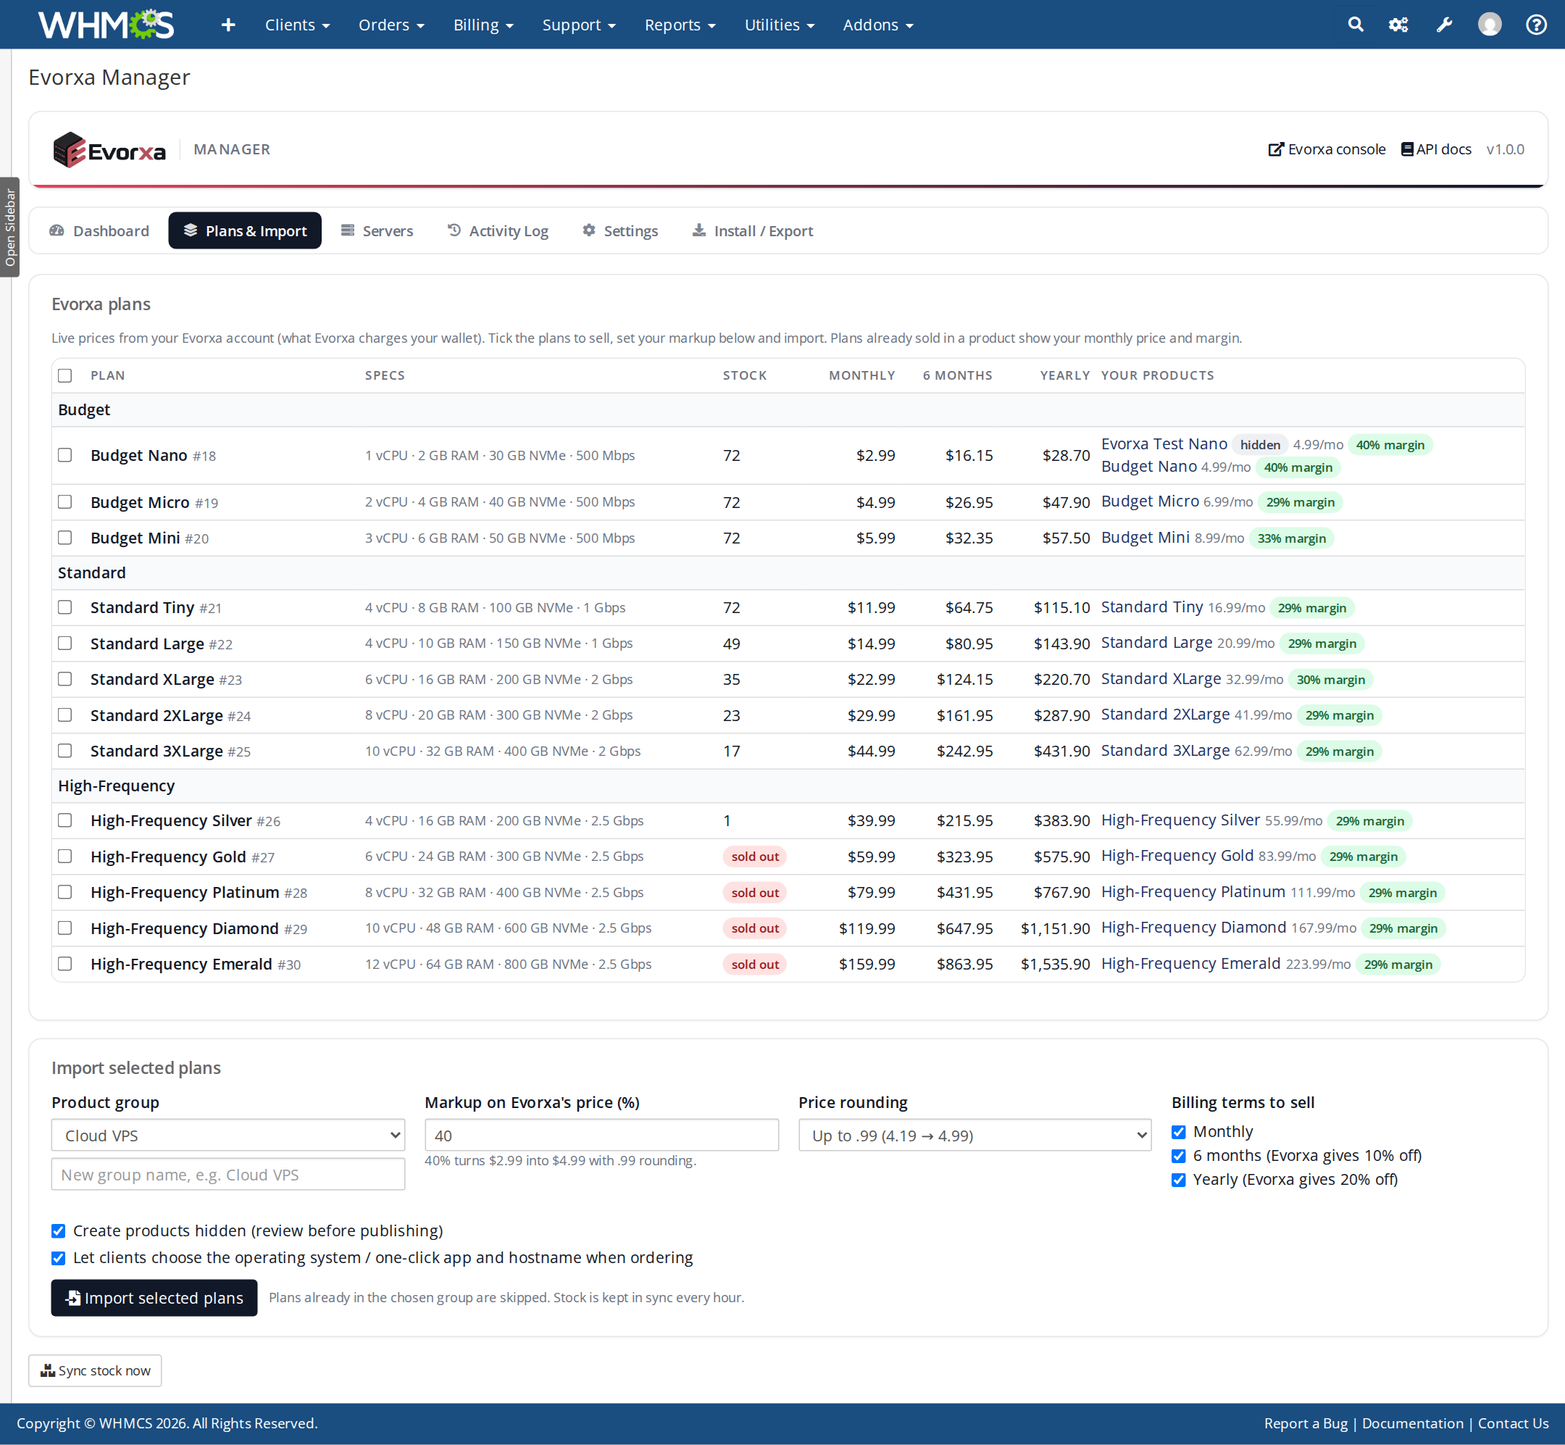
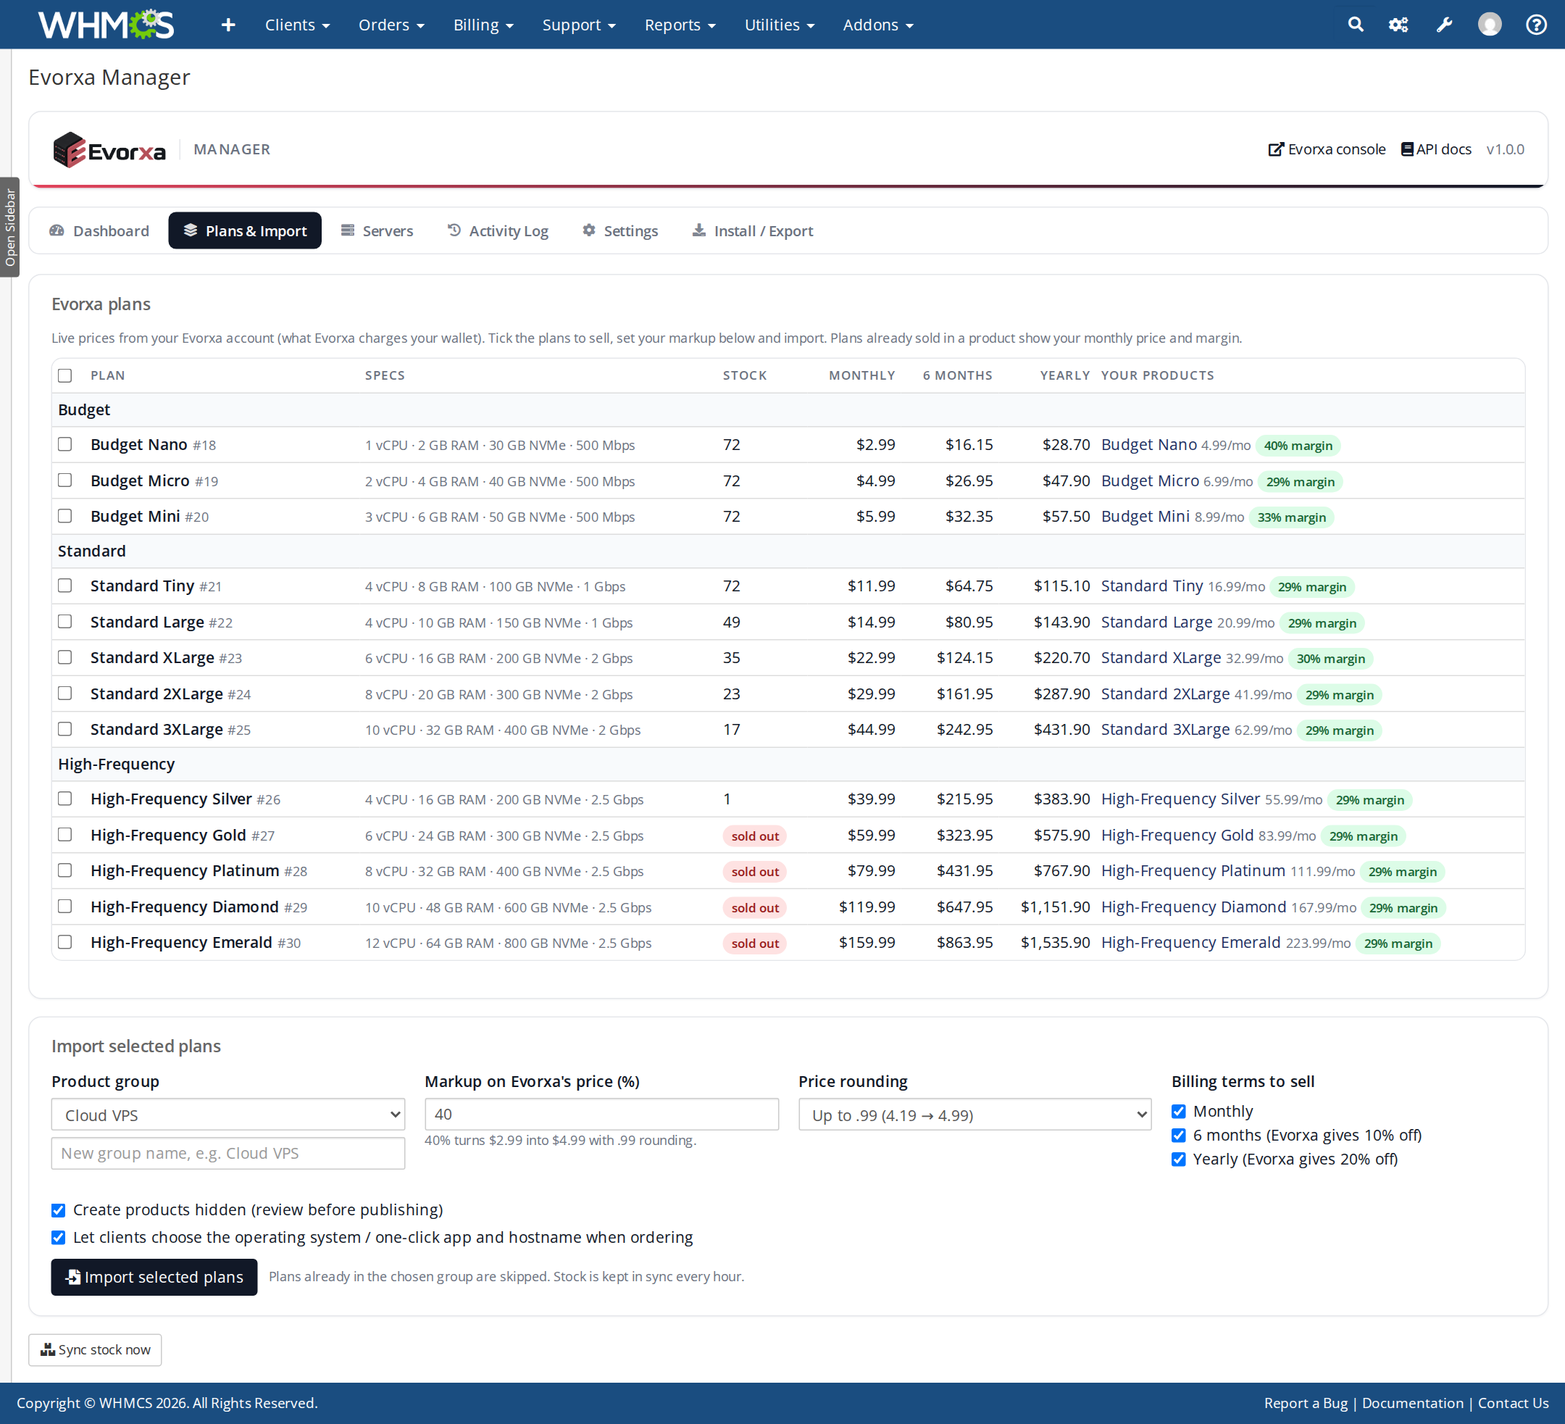
README, one-command installer, Marketplace listing and images
- README: hero image, badges, one-command curl install, manual install, features
  with images, screenshot gallery, requirements, customising, support
- install.sh: install or update from the latest GitHub release into any WHMCS
  (checks the folder, backs up an existing install, keeps lang/overrides,
  matches file ownership)
- marketplace/: WHMCS Marketplace listing text, 892x502 screenshots, icon and
  GitHub social preview
- Plans & Import: retired products are no longer listed under "Your products"
- INSTALL.md / INSTALL.txt / CHANGELOG: one-command install

diff --git a/modules/servers/evorxa/lib/Admin/AddonController.php b/modules/servers/evorxa/lib/Admin/AddonController.php
@@ -329,11 +329,12 @@ class AddonController
     {
         $plans = (new Catalog($this->api()))->plans(true);
         $linked = [];
-        foreach (Capsule::table('tblproducts')->where('servertype', 'evorxa')->get(['id', 'name', 'gid', 'hidden', 'retired', 'configoption1']) as $p) {
+        // Retired products can no longer be ordered, so they are not "your products" for a plan.
+        foreach (Capsule::table('tblproducts')->where('servertype', 'evorxa')->where('retired', 0)->get(['id', 'name', 'gid', 'hidden', 'configoption1']) as $p) {
             $monthly = Capsule::table('tblpricing')->where('type', 'product')->where('relid', $p->id)
                 ->where('currency', (int) Capsule::table('tblcurrencies')->where('default', 1)->value('id'))->value('monthly');
             $linked[(int) $p->configoption1][] = [
-                'id' => $p->id, 'name' => $p->name, 'hidden' => (bool) $p->hidden, 'retired' => (bool) $p->retired,
+                'id' => $p->id, 'name' => $p->name, 'hidden' => (bool) $p->hidden,
                 'monthly' => $monthly !== null && (float) $monthly > 0 ? (float) $monthly : null,
             ];
         }

diff --git a/README.md b/README.md
@@ -1,12 +1,177 @@
-# Evorxa Cloud for WHMCS
+<p align="center">
+  <img src="marketplace/github-social-preview.png" alt="Evorxa Cloud for WHMCS - resell VPS and VDS servers with automatic provisioning" width="100%">
+</p>
 
-Resell Evorxa VPS and VDS servers from WHMCS with automatic provisioning, a full client control panel and the Evorxa Manager admin addon.
+<h1 align="center">Evorxa Cloud for WHMCS</h1>
 
-Documentation (shipped inside the module):
+<p align="center">
+  <b>Resell Evorxa VPS and VDS cloud servers from WHMCS, under your own brand.</b><br>
+  Automatic provisioning, a full client control panel and an admin manager for prices, stock, renewals and wallet alerts.
+</p>
 
-- [Overview & screenshots](modules/servers/evorxa/docs/README.md)
-- [Installation guide](modules/servers/evorxa/docs/INSTALL.md)
-- [How to use](modules/servers/evorxa/docs/USAGE.md)
-- [Changelog](modules/servers/evorxa/docs/CHANGELOG.md)
+<p align="center">
+  <a href="https://github.com/ScaleBit-Technologies/evorxa-whmcs/releases/latest"><img src="https://img.shields.io/github/v/release/ScaleBit-Technologies/evorxa-whmcs?label=release&color=e2445c" alt="Latest release"></a>
+  <img src="https://img.shields.io/badge/WHMCS-8.0%2B-1d4ed8" alt="WHMCS 8.0+">
+  <img src="https://img.shields.io/badge/PHP-7.4%20--%208.3-777bb4" alt="PHP 7.4 - 8.3">
+  <img src="https://img.shields.io/badge/languages-English%20%7C%20Arabic-0f766e" alt="English and Arabic">
+  <a href="https://github.com/ScaleBit-Technologies/evorxa-whmcs/releases/latest/download/evorxa-whmcs.zip"><img src="https://img.shields.io/badge/download-evorxa--whmcs.zip-111827" alt="Download"></a>
+</p>
 
-Development: `bin/deploy.sh /path/to/whmcs [owner:group]` copies the module into a WHMCS install; `bin/package.sh` builds the upload-ready zip in `dist/` (same contents as Evorxa Manager > Install / Export).
+<p align="center">
+  <a href="#install">Install</a> ·
+  <a href="#features">Features</a> ·
+  <a href="#screenshots">Screenshots</a> ·
+  <a href="modules/servers/evorxa/docs/INSTALL.md">Installation guide</a> ·
+  <a href="modules/servers/evorxa/docs/USAGE.md">How to use</a> ·
+  <a href="modules/servers/evorxa/docs/CHANGELOG.md">Changelog</a>
+</p>
+
+---
+
+**Evorxa Cloud** is a WHMCS provisioning module and admin addon for hosting companies that want to sell cloud servers without running their own hypervisors. Your clients order a VPS in your WHMCS store. When the invoice is paid, the server is created on your [Evorxa](https://evorxa.com) account in about a minute. The client then gets a branded "server ready" email and a complete control panel on the service page. Suspensions, terminations with prorated refunds, upgrades and renewals are handled for you.
+
+## Install
+
+### One command (SSH)
+
+```bash
+curl -fsSL https://raw.githubusercontent.com/ScaleBit-Technologies/evorxa-whmcs/master/install.sh | bash -s -- /path/to/whmcs
+```
+
+Replace `/path/to/whmcs` with the folder that contains WHMCS's `init.php` (for example `/var/www/whmcs` or `/home/user/public_html`). The script:
+
+- checks the folder really is WHMCS
+- downloads the latest release
+- installs only `modules/servers/evorxa` and `modules/addons/evorxa_manager`
+- gives the files the same owner as WHMCS
+
+Run the same command again to **update**. The current install is backed up to your home folder first, and your settings and `lang/overrides` are kept. To install a specific version, add it at the end: `... | bash -s -- /path/to/whmcs 1.0.0`.
+
+### With curl and unzip
+
+```bash
+cd /path/to/whmcs
+curl -fsSLO https://github.com/ScaleBit-Technologies/evorxa-whmcs/releases/latest/download/evorxa-whmcs.zip
+unzip -o evorxa-whmcs.zip 'modules/*' && rm evorxa-whmcs.zip
+# if you ran this as root: chown -R <web user>:<web group> modules/servers/evorxa modules/addons/evorxa_manager
+```
+
+### Without SSH (cPanel, Plesk, FTP)
+
+Download **[evorxa-whmcs.zip](https://github.com/ScaleBit-Technologies/evorxa-whmcs/releases/latest/download/evorxa-whmcs.zip)** and extract it into your WHMCS root folder. It only adds the two module folders.
+
+### Then connect your Evorxa account (about 10 minutes)
+
+1. **System Settings > Addon Modules**: activate **Evorxa Manager**.
+2. **Evorxa console > API tokens**: create a token with `instances:read instances:write analytics:read shield:read shield:write wallet:read`.
+3. **System Settings > Servers > Add New Server**: module **Evorxa Cloud**, hostname `api.evorxa.com`, paste the token into **Password**, then **Test Connection**.
+4. **Addons > Evorxa Manager > Settings**: choose the Evorxa project for client servers and your hostname suffix.
+5. **Plans & Import**: tick the plans to sell, set your markup and import. Review the hidden products, then publish them.
+6. Run the WHMCS cron every 5 minutes.
+
+Step-by-step with screenshots: **[Installation guide](modules/servers/evorxa/docs/INSTALL.md)**.
+
+## Features
+
+### A control panel your clients will love
+
+It replaces the Overview tab of the service page in any theme (Lagom, Twenty-One, Six, custom). It works on desktop and mobile, in English and Arabic (RTL), and is fully white-label: clients never see Evorxa.
+
+- **Power**: start, restart, shut down, force off (with confirmation)
+- **Access**: SSH command or RDP address, username, root password (hidden until *Show*) and **reset root password**
+- **IP addresses** with **editable reverse DNS**
+- **Usage graphs**: CPU, memory, disk and network for 1 h, 6 h or 24 h
+- **DDoS protection**: filtered vs clean traffic, attack history and email alerts
+- **Network firewall**: on/off switch, default policies, quick-add rules and **drag-and-drop rule order**
+- **Reinstall** with any operating system or a one-click app
+- Fast: cached data with skeleton loading, no spinners
+
+![Client control panel](marketplace/1-client-control-panel.png)
+
+### Operating system or one-click app at checkout
+
+One visual picker replaces the plain dropdowns on the order form. Clients choose an OS family and version, or apps like n8n, Coolify, WireGuard, Nextcloud, cPanel, DirectAdmin or Pterodactyl. It works with every order form template and theme, and keeps the choice when the billing cycle changes.
+
+![Order form picker](marketplace/2-order-os-or-app.png)
+
+### Evorxa Manager for admins
+
+- **Dashboard**: setup checklist, wallet balance, next renewal, monthly revenue vs Evorxa cost and your margin, and anything that needs attention
+- **One-click plan import** with your markup and price rounding (for example 40 % rounded to x.99), in every currency, with upgrade paths between plans
+- **Stock sync** every hour, so sold-out plans cannot be ordered
+- **Servers**: reconcile Evorxa servers with WHMCS services, and flag unmanaged or orphaned servers
+- **Activity log** of every action with the wallet charge or refund
+- **Alerts** for low wallet, failed builds, apps that did not install and servers suspended upstream
+- **Install / Export**: download an upload-ready package of the installed module
+
+![Plan import](marketplace/3-plan-import.png)
+
+### Safe with your money
+
+- A server is **never bought twice**: the order is recorded before Evorxa is called, never retried blindly, and adopted by name if a request timed out.
+- The module **only touches servers it created**. Your own Evorxa projects are never listed or changed.
+- **Terminate** deletes the server immediately, and Evorxa refunds the unused time to your wallet.
+- **End-of-period cancellations** stop the Evorxa renewal in time.
+- The **renewal keeper** reactivates a server Evorxa suspended while the client has paid.
+- Free and one-time billing cycles are refused, because they would bill your wallet forever.
+
+## Screenshots
+
+| | |
+|---|---|
+| ![Overview](modules/servers/evorxa/docs/screenshots/01-client-overview.png) | ![Usage graphs](modules/servers/evorxa/docs/screenshots/02-client-usage.png) |
+| ![DDoS protection](modules/servers/evorxa/docs/screenshots/03-client-ddos.png) | ![Firewall](modules/servers/evorxa/docs/screenshots/04-client-firewall.png) |
+| ![Reinstall](modules/servers/evorxa/docs/screenshots/05-client-reinstall.png) | ![One-click apps](modules/servers/evorxa/docs/screenshots/06-client-reinstall-apps.png) |
+| ![Reverse DNS](modules/servers/evorxa/docs/screenshots/07-client-ip-rdns.png) | ![Setting up](modules/servers/evorxa/docs/screenshots/09-client-provisioning.png) |
+| ![Suspended](modules/servers/evorxa/docs/screenshots/10-client-suspended.png) | ![Closed](modules/servers/evorxa/docs/screenshots/11-client-closed.png) |
+| ![Arabic](modules/servers/evorxa/docs/screenshots/12-client-arabic.png) | ![Order form](modules/servers/evorxa/docs/screenshots/14-order-os.png) |
+| ![Manager dashboard](modules/servers/evorxa/docs/screenshots/20-admin-dashboard.png) | ![Plans & Import](modules/servers/evorxa/docs/screenshots/21-admin-plans.png) |
+| ![Servers](modules/servers/evorxa/docs/screenshots/22-admin-servers.png) | ![Activity log](modules/servers/evorxa/docs/screenshots/23-admin-activity-log.png) |
+| ![Settings](modules/servers/evorxa/docs/screenshots/24-admin-settings.png) | ![Admin service tab](modules/servers/evorxa/docs/screenshots/26-admin-service-tab.png) |
+| ![Server ready email](modules/servers/evorxa/docs/screenshots/27-email-server-ready.png) | ![Mobile](modules/servers/evorxa/docs/screenshots/13-client-mobile.png) |
+
+All 27 screenshots: [`modules/servers/evorxa/docs/screenshots`](modules/servers/evorxa/docs/screenshots).
+
+## Requirements
+
+| | |
+|---|---|
+| WHMCS | 8.0 or newer (developed and tested on 8.11) |
+| PHP | 7.4 - 8.3 with cURL (zip only for *Install / Export*) |
+| Cron | the WHMCS cron every 5 minutes |
+| Evorxa | an account with wallet balance and an API token |
+
+## Documentation
+
+- **[Overview](modules/servers/evorxa/docs/README.md)**: what the module does
+- **[Installation guide](modules/servers/evorxa/docs/INSTALL.md)**: upload, activate, connect Evorxa, import plans, update, uninstall
+- **[How to use](modules/servers/evorxa/docs/USAGE.md)**: daily operation, billing and renewals, the client panel, customising templates, wording, colours and emails, FAQ
+- **[Changelog](modules/servers/evorxa/docs/CHANGELOG.md)**
+
+## Customising
+
+All client and admin screens are Smarty templates fed by one documented variable, so you can restyle them without touching PHP. You can:
+
+- change the wording in `lang/overrides/` (kept when you update)
+- change the colours through CSS variables
+- replace the OS and app logos with your own
+
+See [Customising](modules/servers/evorxa/docs/USAGE.md#customising).
+
+## Development
+
+```
+modules/servers/evorxa/          provisioning module, client panel, templates, docs
+modules/addons/evorxa_manager/   Evorxa Manager addon (admin pages, hooks, background sync)
+install.sh                       one-command installer / updater
+bin/deploy.sh                    copy the module into a WHMCS install: bin/deploy.sh /path/to/whmcs [owner:group]
+bin/package.sh                   build dist/evorxa-whmcs-<version>.zip (same as Install / Export)
+marketplace/                     WHMCS Marketplace listing text and images
+```
+
+## Support
+
+- Bugs and feature requests: [GitHub issues](https://github.com/ScaleBit-Technologies/evorxa-whmcs/issues)
+- Evorxa account, API and billing: [evorxa.com](https://evorxa.com), support@evorxa.com
+
+Made by **ScaleBit Technologies**, the company behind Evorxa. License: proprietary.

diff --git a/marketplace/LISTING.md b/marketplace/LISTING.md
@@ -1,0 +1,115 @@
+# WHMCS Marketplace listing
+
+Everything needed for the "Add product" form on marketplace.whmcs.com, field by field.
+Images are in this folder.
+
+## General Information
+
+**Name**
+
+```
+Evorxa Cloud - VPS & VDS Reseller
+```
+
+**Category:** Provisioning Modules
+
+**Icon:** `icon.png` (200x200)
+
+**Short Description**
+
+```
+Resell Evorxa VPS and VDS servers under your brand: automatic provisioning, a full client control panel with firewall and DDoS view, and one-click plan import.
+```
+
+**Long Description**
+
+```markdown
+**Sell cloud servers without running your own hypervisors.** Evorxa Cloud connects WHMCS to your Evorxa account. When a client pays, their VPS is created in about a minute, and they manage it from a complete control panel on the service page. Everything is white-label: your clients only ever see your brand.
+
+### Automatic provisioning
+* Paid orders create the server automatically, and the client receives a "server ready" email with the IP and login
+* Suspend, unsuspend, terminate (prorated refund to your Evorxa wallet), upgrade and renewals are all handled for you
+* Safe with your money: a server is never bought twice, and only servers the module created are ever touched
+
+### A control panel your clients will love
+* Start, restart, shut down and force off
+* SSH/RDP details, root password reveal and reset
+* IP addresses with editable reverse DNS
+* Usage graphs for CPU, memory, disk and network
+* DDoS protection view with attack history and email alerts
+* Network firewall with default policies and drag-and-drop rule order
+* Reinstall with any operating system or a one-click app (n8n, Coolify, WireGuard, Nextcloud, cPanel, DirectAdmin, Pterodactyl and more)
+* Works in any theme, on desktop and mobile, in English and Arabic (RTL)
+
+### Better order form
+* One visual "Operating system or app" picker with logos and OS versions, instead of plain dropdowns
+* Works with every order form template
+
+### Evorxa Manager (admin)
+* Dashboard with setup checklist, wallet balance, next renewal and your monthly margin
+* Import Evorxa plans in one click with your markup and price rounding, in every currency, with upgrade paths
+* Hourly stock sync, so sold-out plans cannot be ordered
+* Server reconciliation and a full activity log with every wallet charge and refund
+* Alerts for low wallet, failed builds and servers suspended upstream
+* Install / Export: download an upload-ready copy of the module for another WHMCS
+
+### Easy to install
+Upload the zip, or run one command over SSH:
+`curl -fsSL https://raw.githubusercontent.com/ScaleBit-Technologies/evorxa-whmcs/master/install.sh | bash -s -- /path/to/whmcs`
+
+Then activate the addon, add your Evorxa API token and import plans. The step-by-step guide with screenshots is at https://github.com/ScaleBit-Technologies/evorxa-whmcs
+
+Made by ScaleBit Technologies, the company behind Evorxa.
+```
+
+**Payment Type:** Free
+
+**Download URL**
+
+```
+https://github.com/ScaleBit-Technologies/evorxa-whmcs/releases/latest/download/evorxa-whmcs.zip
+```
+
+This is a direct zip download, not a landing page. It always serves the newest release.
+
+## Current Version
+
+**Version Number:** `1.0.0`
+
+**Release Date:** `09/21/2026`
+
+**Changelog**
+
+```markdown
+* First release
+* Evorxa Cloud provisioning module: automatic create, suspend, unsuspend, terminate with prorated refund, upgrade and renewal keeper
+* Client control panel: power, credentials, reverse DNS editing, usage graphs, DDoS view and alerts, network firewall with drag-and-drop rule order, reinstall with OS or one-click apps
+* Order form: visual "Operating system or app" picker with logos
+* Evorxa Manager addon: dashboard, one-click plan import with markup, stock sync, server reconciliation, activity log, wallet and build alerts, Install / Export
+* English and Arabic (RTL), "Cloud Server Ready" email template, full documentation with screenshots
+```
+
+## Compatibility
+
+Tick **WHMCS 8.0 to 8.13** (all 8.x versions). The module uses the WHMCS 8 module APIs and was developed and tested on 8.11.
+Leave 9.0 unticked until it has been tested on WHMCS 9. Do not tick 7.x or older.
+
+## Screenshots
+
+| File | Name | Description |
+|---|---|---|
+| `1-client-control-panel.png` | Client control panel | Power controls, SSH access, IPs with reverse DNS, usage graphs, DDoS view, firewall and reinstall on the service page, in any theme. |
+| `2-order-os-or-app.png` | OS or one-click app at checkout | A logo picker on the order form: operating system with version, or apps like n8n, Coolify, cPanel and Pterodactyl. |
+| `3-plan-import.png` | One-click plan import | Evorxa Manager shows live Evorxa prices and stock with your price and margin, and creates WHMCS products with your markup. |
+
+## Requirements
+
+Tick "This product has environmental or other requirements" and enter:
+
+```
+An Evorxa account (evorxa.com) with wallet balance and an API token. PHP 7.4 - 8.3 with cURL. The WHMCS cron must run every 5 minutes.
+```
+
+## GitHub social preview
+
+`github-social-preview.png` (1280x640): upload it in the repository's Settings > General > Social preview. GitHub has no API for this.

diff --git a/modules/servers/evorxa/docs/INSTALL.md b/modules/servers/evorxa/docs/INSTALL.md
@@ -16,7 +16,15 @@ This takes about 10 minutes. You need WHMCS admin access (Full Administrator) an
 
 ## 1. Upload the files
 
-Extract the package into your WHMCS root folder (the folder that contains `init.php`). It only adds two folders:
+**With SSH**, one command downloads the latest release and installs it (run it again later to update):
+
+```bash
+curl -fsSL https://raw.githubusercontent.com/ScaleBit-Technologies/evorxa-whmcs/master/install.sh | bash -s -- /path/to/whmcs
+```
+
+**Without SSH**, download [evorxa-whmcs.zip](https://github.com/ScaleBit-Technologies/evorxa-whmcs/releases/latest/download/evorxa-whmcs.zip) and extract it into your WHMCS root folder (the folder that contains `init.php`).
+
+Either way, only two folders are added:
 
 ```
 modules/servers/evorxa/          <- provisioning module, client panel, templates, docs
@@ -113,7 +121,7 @@ Open **Addons > Evorxa Manager > Dashboard**. When every item in *Setup* is gree
 
 ## Updating
 
-Extract a newer package over the old files. Settings, servers, logs and your `lang/overrides` are kept. If the new version changes the database, WHMCS runs the addon's upgrade automatically when you next open Evorxa Manager.
+Run the install command from step 1 again (it backs up the current files first), or extract a newer package over the old files. Settings, servers, logs and your `lang/overrides` are kept. If the new version changes the database, WHMCS runs the addon's upgrade automatically when you next open Evorxa Manager.
 
 ## Moving to another WHMCS
 

diff --git a/modules/servers/evorxa/docs/CHANGELOG.md b/modules/servers/evorxa/docs/CHANGELOG.md
@@ -4,6 +4,7 @@
 
 First release.
 
+- One-command install and update over SSH (`install.sh`), downloads from GitHub releases.
 - Documentation: installation guide, usage guide and 27 screenshots (client area, order form, admin, email) in `modules/servers/evorxa/docs/`; included in every package.
 - Order form: one "Operating system or app" picker with logos (OS families + versions, app cards); re-attaches when the order form re-draws its options.
 - Evorxa Cloud server module: automatic provisioning with idempotent creates, suspend/unsuspend/terminate/upgrade, renewal keeper, project fence, ready email (EN/AR).
